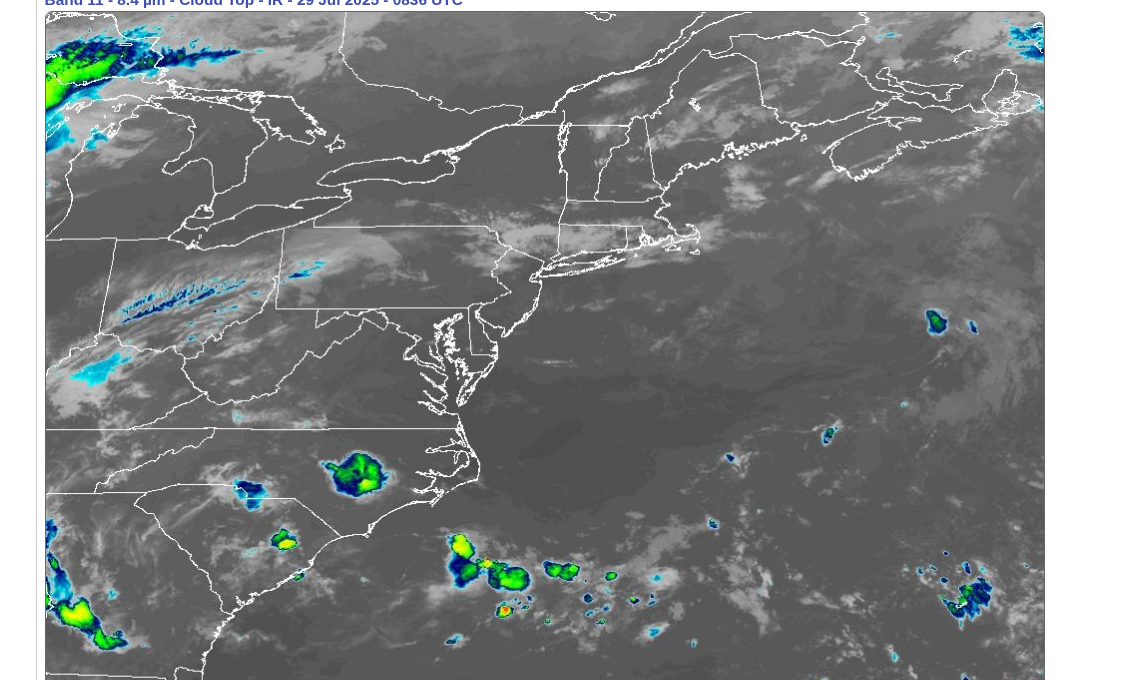
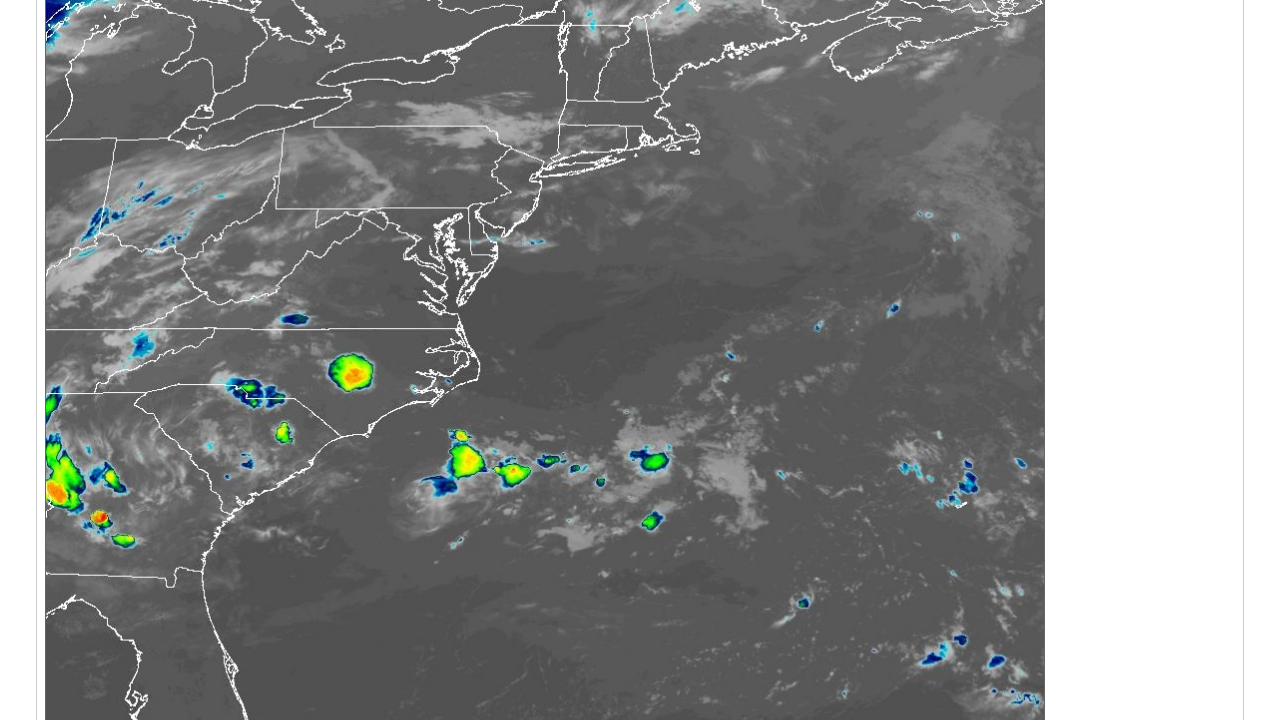
screen res and position for noaa  test.

diff --git a/docs/wa/pw/noaa.spec.js b/docs/wa/pw/noaa.spec.js
@@ -8,17 +8,30 @@ test('capture noaa radar', async ({ page }) => {
     headless: true,
     args: [
 	'--kiosk',
-	'--window-size=1920,900'
+	'--window-size=1920,1080'
     ]
   });
+
+//  await page.setViewportSize({ width: 1920, height: 1080 }); // Safe and widely supported
 
   await page.goto('https://www.star.nesdis.noaa.gov/goes/sector_band.php?sat=G19&sector=eus&band=11&length=71&dim=1 &');
   const title = await page.title();
   await page.evaluate(() => {
-    window.scrollTo(0, 270); // Scroll down y pixels
+    window.scrollTo(0, 370); // Scroll down y pixels
   });
   // await page.waitForTimeout(5000); // pauses for 3 second
-  await page.screenshot({ path: '/tmp/wa/noaa.png' });
+
+  // await page.screenshot({ path: '/tmp/wa/noaa.png' });
+  await page.screenshot({
+    path: '/tmp/wa/noaa.png',
+    clip: {
+     x: 0,       // horizontal offset from top-left
+     y: 0,       // vertical offset from top-left
+     width: 1920,   // width of the screenshot
+     height: 1080   // height of the screenshot
+  }
+});
+
 
 });
 
